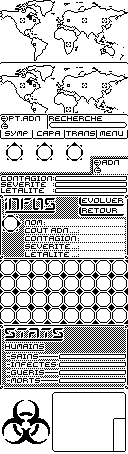
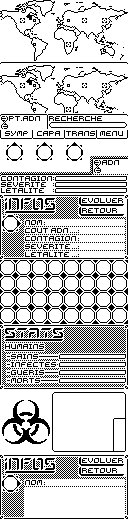
Add descriptions for mutations

diff --git a/src/data.c b/src/data.c
@@ -4,53 +4,53 @@
 // (contation, severity, lethality, DNA cost, change to cure requirement)
 const struct mutation symptoms_data[14] =
 {
-    {10, 10,  0,  2,  0, "NAUSEE"},
-    {15, 10,  0, 10,  0, "VOMISSEMENT"},
-    {10,  5,  0,  3,  0, "TOUX"},
-    {15, 20,  0, 10,  0, "PNEUMONIE"},
-    {10, 30, 20, 15, 10, "TUMEUR"},
-    {15, 10,  5,  4,  0, "PLAIES"},
-    {10, 10, 10, 10,  0, "LESIONS"},
-    {30, 20, 20, 20,  5, "HEMORRAGIE"},
-    {25, 15, 10, 17,  0, "INFECTION"},
-    {15, 10,  5,  5,  0, "INFLAMMATION"},
-    {10, 15, 20, 15,  0, "IMMUNITE"},
-    { 0, 20,  0, 15,  10, "PARANOIA"},
-    { 0, 15, 15, 20,  10, "FOLIE"},
-    { 0, 30, 30, 30,  20, "ARRET TOTAL"},
+    {10, 10,  0,  2,  0, "NAUSEE", "DONNE DES NAUSEES"},
+    {15, 10,  0, 10,  0, "VOMISSEMENT", "PROVOQUE DES REJETS GESTRIQUES"},
+    {10,  5,  0,  3,  0, "TOUX", "LA PROJECTION DE PARTICULE AUGMENTE LA CONTAGION"},
+    {15, 20,  5, 10,  0, "PNEUMONIE", "AFFECTION PULMONAIRE PEU MORTELLE"},
+    { 0, 30, 20, 15, 10, "TUMEUR", "PEU CONTAGIEUX, MAIS MORTEL"},
+    {15, 10,  5,  4,  0, "PLAIES", "LA PEAU S'ASSECHE ET DEVIENT CASSANTE"},
+    {10, 10, 10, 10,  0, "LESIONS", "BLOQUE LA CICATRISATION"},
+    {30, 20, 20, 20,  5, "HEMORRAGIE", "BLOQUE L'ACTION DES PLAQUETTES"},
+    {25, 15, 10, 17,  0, "INFECTION", "CREER DES FOYERS D'INFECTION DANS LE CORPS"},
+    {15, 10,  5,  5,  0, "INFLAMMATION", "PROVOQUE DES ROUGEURS ET DEMANGEAISONS"},
+    {10, 15, 20, 15,  0, "IMMUNITE", "BLOQUE L'ACTION DU SYSTEME IMMUNITAIRE"},
+    { 0, 20,  0, 15,  10, "PARANOIA", "LES CHERCHEURS N'ARRIVENT PLUS A COOPERER ENTRE EUX"},
+    { 0, 15, 15, 20,  10, "FOLIE", "PROVOQUE DES CRISES D'HYSTERIES"},
+    { 0, 30, 30, 30,  20, "ARRET TOTAL", "EMPECHE LES ORGANES DE FONCTIONNER    "},
 };
 
 
 const struct mutation abilities_data[6] =
 {
-    {15,  0,  0, 10,  0, "FROID"},
-    {15,  0,  0, 15,  0, "CHAUD"},
-    { 0, 10,  4, 25, 10, "GENETIQUE"},
-    {10, 40, 20, 30, 20, "MUTATION+"},
-    {30, 10,  0, 30,  0, "ENVIRON"},
-    { 0, 15, 30, 15, 20, "MEDICAMENT"},
+    {15,  0,  0, 10,  0, "FROID", "RESISTANCE AU FROID"},
+    {15,  0,  0, 15,  0, "CHAUD", "RESISTANCE AU CHAUD"},
+    { 0, 10,  4, 25, 10, "GENETIQUE", "LE GENOME MUTE, RALENTISSANT LE SEQUENCAGE ADN"},
+    {10, 40, 20, 30, 20, "MUTATION+", "LE VIRUS MUTE, BLOQUANT LES CHERCHEURS"},
+    {30, 10,  0, 30,  0, "ENVIRON", "LE VIRUS RESISTE AUX ENVIRONNEMENTS LES PLUS HOSTILES"},
+    { 0, 15, 30, 15, 20, "MEDICAMENT", "RESISTANCES AU MEDICAMENTS"},
 };
 
 
 const struct mutation transmissions_data[13] =
 {
-    { 5,  0, 0,  9, 0, "AIR 1"},
-    {10, 10, 0, 15, 0, "AIR 2"},
-    {20, 10, 0, 20, 0, "AIR 3"},
-    {40, 15, 0, 30, 0, "AEROSOL"},
-    {10,  0, 0,  9, 0, "EAU 1"},
-    {20, 10, 0, 12, 0, "EAU 2"},
-    {20,  0, 0, 10, 0, "ANIMAL 1"},
-    {40, 10, 0, 16, 0, "ANIMAL 2"},
-    {20,  0, 0, 12, 0, "OISEAU 1"},
-    {40, 10, 0, 16, 0, "OISEAU 2"},
-    {10,  0, 0,  8, 0, "SANG 1"},
-    {20, 10, 0, 14, 0, "SANG 2"},
-    {40, 15, 0, 20, 0, "SANG 3"},
+    { 5,  0, 0,  9, 0, "AIR 1", "TRANSMISSION PAR L'AIR"},
+    {10, 10, 0, 15, 0, "AIR 2", "TRANSMISSION PAR L'AIR"},
+    {20, 10, 0, 20, 0, "AIR 3",  "TRANSMISSION PAR L'AIR"},
+    {40, 15, 0, 30, 0, "AEROSOL", "TRANSMISSION PAR L'AIR ET PAR L'EAU"},
+    {10,  0, 0,  9, 0, "EAU 1", "TRANSMISSION PAR L'EAU"},
+    {20, 10, 0, 12, 0, "EAU 2", "TRANSMISSION PAR L'EAU"},
+    {20,  0, 0, 10, 0, "ANIMAL 1", "LE VIRUS PEUT PASSER DE L'ANIMAL À L'HOMME"},
+    {40, 10, 0, 16, 0, "ANIMAL 2", "CAPACITE DE TRANSMISSION HOMME-ANIMAL"},
+    {20,  0, 0, 12, 0, "OISEAU 1", "CAPACITE DE TRANSMISSION ENTRE LES OISEAU"},
+    {40, 10, 0, 16, 0, "OISEAU 2", "LES OISEAUX DEVIENNENT DES VECTEURS VIRALS"},
+    {10,  0, 0,  8, 0, "SANG 1", "LE VIRUS SE TRANSMET PAR LE SANG"},
+    {20, 10, 0, 14, 0, "SANG 2", "LE VIRUS SE TRANSMET PAR LE SANG"},
+    {40, 15, 0, 20, 0, "SANG 3", "LE VIRUS SE TRANSMET PAR LE SANG"},
 };
 
 
-const struct mutation default_value = {0, 0, 0, 0, 0, "NONE"};
+const struct mutation default_value = {0, 0, 0, 0, 0, "NONE", "NONE"};
 
 
 /* Encoded data for the world

diff --git a/src/display_engine.c b/src/display_engine.c
@@ -146,6 +146,28 @@ void display_mutation_buy(const struct cursor c, const int mutation_menu, const 
 }
 
 
+void display_mutation_description(const char *name, const char *description, const int mutation_menu, const int id)
+{
+    extern const bopti_image_t img_mutations;
+
+    int decalage = 0;
+
+    dclear(C_WHITE);
+
+    display_background(8);
+    dsubimage(3, 21, &img_mutations, 16 * (mutation_menu - 1), 16 * (id - 1), 15, 15, DIMAGE_NONE);
+    dprint(47, 25, C_BLACK, name);
+    
+    for (int i = 0; i < 4; i ++)
+    {
+        dtext_opt(25, 33 + i * 7, C_BLACK, C_WHITE, 0 ,0, description + decalage, 16 );
+        if (description[decalage+1] == '\0') break;
+        else decalage += 16;
+    }
+    dupdate();
+}
+
+
 void display_message(const char *msg[5])
 {
     dclear(C_WHITE);

diff --git a/src/display_engine.h b/src/display_engine.h
@@ -15,6 +15,9 @@ void display_mutation(const int table[4][8], const struct cursor c, const int mu
 // mutation_selected : display the mutation's informations screen
 void display_mutation_buy(const struct cursor c, const int mutation_menu, const int table[4][8], const int button_selected, const struct game *current_game);
 
+// display_mutation_description : display the description of the selected mutation
+void display_mutation_description(const char *name, const char *description, const int mutation_menu, const int id);
+
 // output_error : display text and message background
 void display_message(const char *msg[5]);
 

diff --git a/src/mutation_engine.c b/src/mutation_engine.c
@@ -109,6 +109,11 @@ int mutation_buy(struct game *current_game, const struct cursor c, const int mut
 
         if (key == KEY_DOWN || key == KEY_UP) button_selected = (button_selected + 1) % 2;
         if (key == KEY_ALPHA) return 1;
+        if (key == KEY_OPTN)
+        {
+            display_mutation_description(mutation_data->name, mutation_data->description, mutation_menu, id);
+            getkey();
+        }
         if (key == KEY_SHIFT)
         {
             if (!button_selected) return 0;

diff --git a/src/core.c b/src/core.c
@@ -92,7 +92,7 @@ int get_inputs(const int background, int *mutation_menu)
     if (key == KEY_OPTN && (background == 1 || background == 2)) return (background % 2) + 1;
     if (key == KEY_VARS)
     {
-        *mutation_menu = 1;
+        *mutation_menu = 4;
         return 3;
     }
     if (key == KEY_SQUARE) return 6;

diff --git a/src/mutation_engine.h b/src/mutation_engine.h
@@ -21,7 +21,7 @@ struct mutation
     int contagion, severity, lethality, dna, changement;
 
     // Name of the mutation
-    char *name;
+    char *name, *description;
 };
 
 // get_mutation : return the mutation table to display
